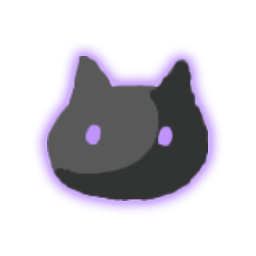
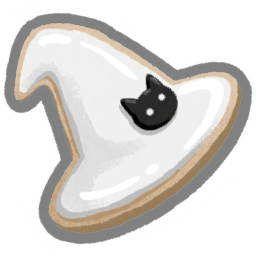
风味猜拳和风味饼干

diff --git a/HatMagician2Code/Character/HatMagician2.cs b/HatMagician2Code/Character/HatMagician2.cs
@@ -104,4 +104,16 @@ public class HatMagician2 : PlaceholderCharacterModel
 
     // 商店人物场景。
     public override string CustomMerchantAnimPath => "hat2_merchant.tscn".ScenePath();
+
+    // 多人模式-手指。
+    public override string CustomArmPointingTexturePath => "multiplayer_hand_hat2_point.png".CharacterUiPath();
+
+    // 多人模式剪刀石头布-石头。
+    public override string CustomArmRockTexturePath => "multiplayer_hand_hat2_rock.png".CharacterUiPath();
+
+    // 多人模式剪刀石头布-布。
+    public override string CustomArmPaperTexturePath => "multiplayer_hand_hat2_paper.png".CharacterUiPath();
+
+    // 多人模式剪刀石头布-剪刀。
+    public override string CustomArmScissorsTexturePath => "multiplayer_hand_hat2_scissors.png".CharacterUiPath();
 }

diff --git a/HatMagician2Code/SceneControl/NMerchantCharacterSub.cs b/HatMagician2Code/SceneControl/NMerchantCharacterSub.cs
@@ -6,8 +6,8 @@ namespace HatMagician2.HatMagician2Code.SceneControl;
 [GlobalClass]
 public partial class NMerchantCharacterSub : NMerchantCharacter
 {
-	public override void _Ready()
-	{
-		//base._Ready();
-	}
+	// public override void _Ready()
+	// {
+	// 	base._Ready();
+	// }
 }

diff --git a/HatMagician2Code/Patches/YummyCookiePatch.cs b/HatMagician2Code/Patches/YummyCookiePatch.cs
@@ -10,7 +10,12 @@ public class YummyCookiePatch
     [HarmonyPostfix]
     public static void Postfix(ref string __result, ref YummyCookie __instance)
     {
-        if (__instance.Owner.Character is Character.HatMagician2)
+        if (__instance.IsCanonical)
+        {
+            return;
+        }
+
+        if (__instance.Owner is { Character: Character.HatMagician2 })
         {
             __result = "yummy_cookie_hatmagician2";
         }